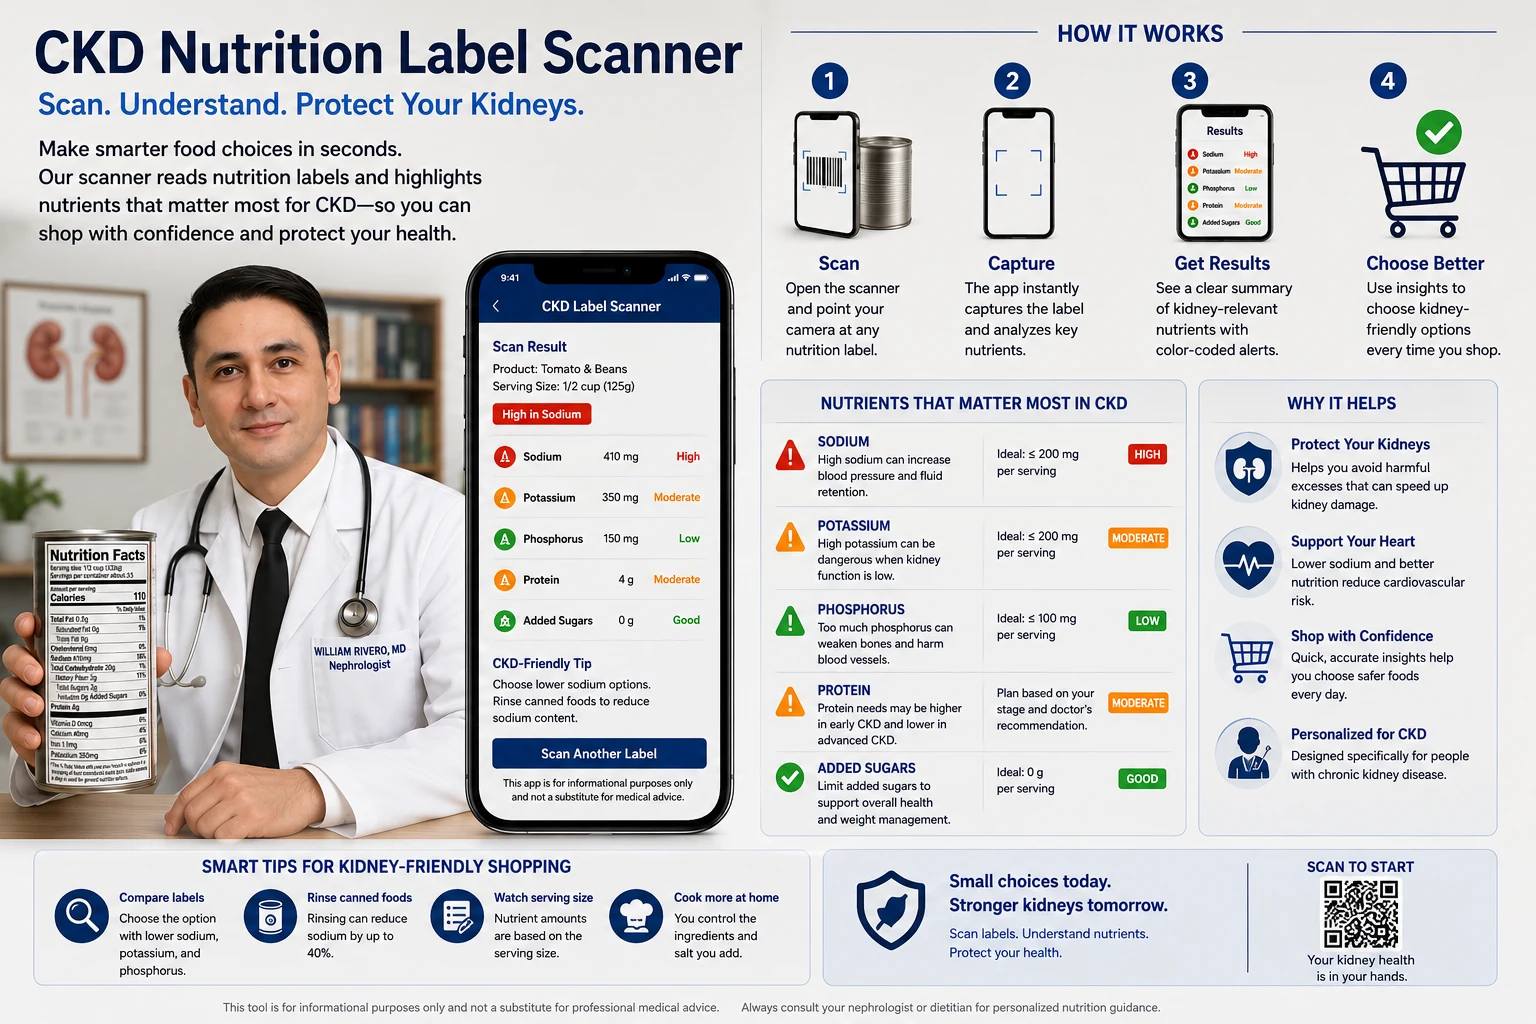
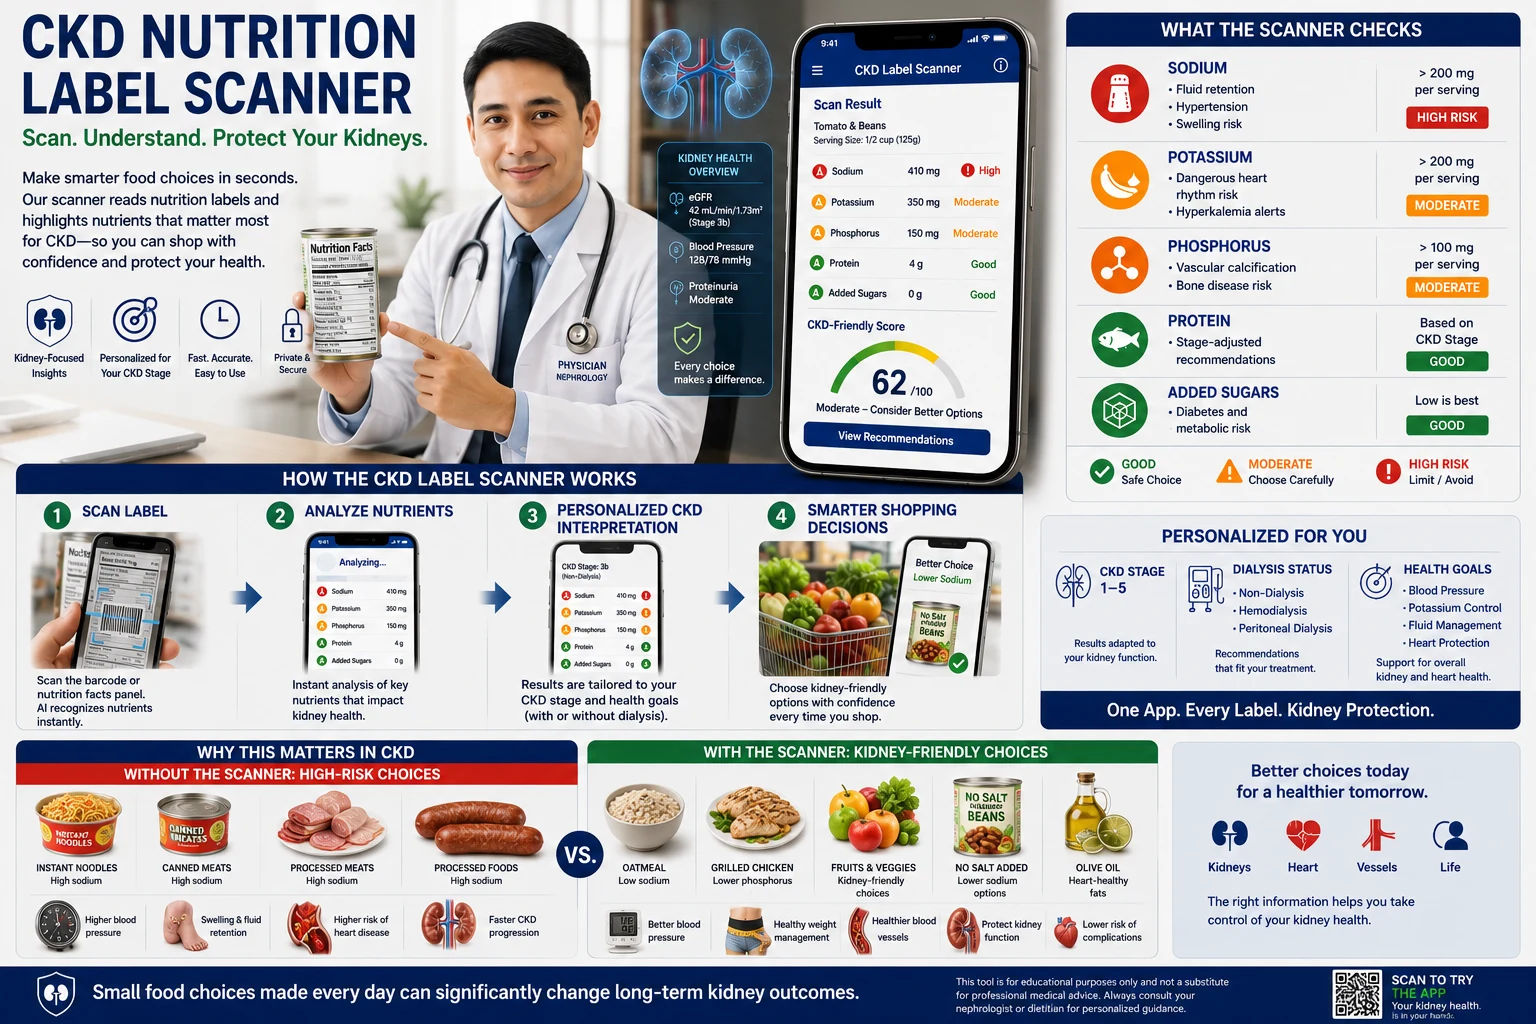
Update CKD Label Scanner infographic with richer 4-section layout
Replaces the prior overview image with a more detailed infographic
covering: 4-step workflow, nutrient threshold checks, personalization
for CKD stage and dialysis status, and high-risk vs kidney-friendly
food comparison. Alt text updated to match.

diff --git a/guides/ckd-label-scanner.html b/guides/ckd-label-scanner.html
@@ -553,7 +553,7 @@ html[data-view="desktop"] body{min-width:1024px;}
 <div class="section-tag" data-lang="en">Guide</div><div class="section-tag lang-hidden" data-lang="tl">Gabay</div><div class="section-tag lang-hidden" data-lang="ceb">Giya</div><div class="section-tag lang-hidden" data-lang="kap">Gabay</div>
 <h2 data-lang="en">How It Works</h2><h2 class="lang-hidden" data-lang="tl">Paano Ito Gumagana</h2><h2 class="lang-hidden" data-lang="ceb">Giunsa Kini Paglihok</h2><h2 class="lang-hidden" data-lang="kap">Makananu Ya Gagana</h2>
 <figure style="margin:0 0 32px;">
-  <img src="../images/ckd-label-scanner-overview.webp" loading="lazy" width="1536" height="1024" alt="CKD Nutrition Label Scanner — Scan, Understand, Protect Your Kidneys: how it works in 4 steps (scan, capture, get results, choose better), nutrients that matter most in CKD with color-coded alerts for sodium, potassium, phosphorus, protein, and added sugars, smart shopping tips, and why it helps" style="border-radius:12px;display:block;width:100%;height:auto;">
+  <img src="../images/ckd-label-scanner-overview.webp" loading="lazy" width="1536" height="1024" alt="CKD Nutrition Label Scanner — Scan, Understand, Protect Your Kidneys: 4-step workflow (scan label, analyze nutrients, personalized CKD interpretation, smarter shopping), nutrient checks for sodium, potassium, phosphorus, protein, and added sugars with risk thresholds, personalization for CKD stage 1–5 and dialysis status, and a comparison of high-risk vs kidney-friendly food choices and their long-term outcomes" style="border-radius:12px;display:block;width:100%;height:auto;">
 </figure>
 <div class="two-col">
 <div class="feat-card">
